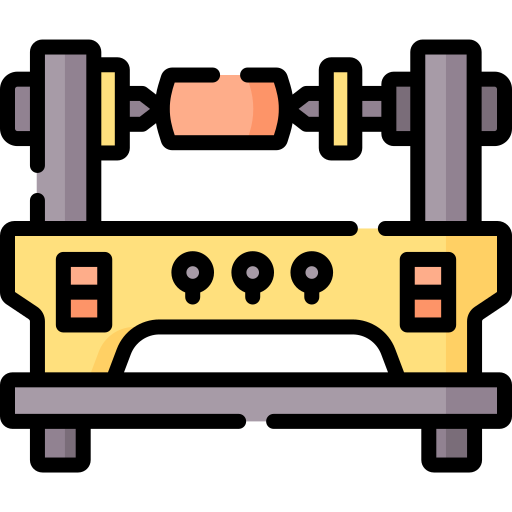
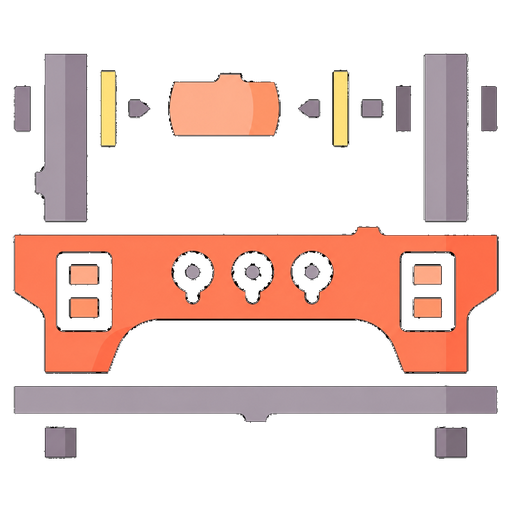
feat(service-entry): enhance equipment display and remove save progress button

diff --git a/frontend/src/features/service-entry/ServiceEntryView.tsx b/frontend/src/features/service-entry/ServiceEntryView.tsx
@@ -436,12 +436,6 @@ export const ServiceEntryView = () => {
     }
   };
 
-  const saveProgress = async () => {
-    const awaitingApproval =
-      step === 3 && form.approvalRequired && form.approvalStatus !== 'Aprovada';
-    await persistEntry(awaitingApproval ? 'Aguardando aprovação' : undefined);
-  };
-
   const openEntry = (entry) => {
     setForm({
       ...createEmptyServiceEntry(),
@@ -594,11 +588,22 @@ export const ServiceEntryView = () => {
                       <td>{entry.client}</td>
 
                       <td>
-                        <div>{entry.equipment || 'A identificar'}</div>
-                        <small>
-                          {entry.manufacturer}
-                          {entry.model ? ` · ${entry.model}` : ''}
-                        </small>
+                        <div className="service-entry-equipment-cell">
+                          {SERVICE_ENTRY_ORDER_TYPE_ICONS[entry.orderType] && (
+                            <img
+                              src={SERVICE_ENTRY_ORDER_TYPE_ICONS[entry.orderType]}
+                              alt=""
+                              aria-hidden="true"
+                            />
+                          )}
+                          <div>
+                            <div>{entry.equipment || 'A identificar'}</div>
+                            <small>
+                              {entry.manufacturer}
+                              {entry.model ? ` · ${entry.model}` : ''}
+                            </small>
+                          </div>
+                        </div>
                       </td>
 
                       <td>{serviceEntryDateLabel(entry.expectedDeliveryDate)}</td>
@@ -1143,22 +1148,14 @@ export const ServiceEntryView = () => {
         )}
 
         <div className="service-entry-actions service-entry-step-actions">
-          <button type="button" className="btn btn-ghost" onClick={reset}>
-            Nova OS
-          </button>
           <div className="service-entry-action-group">
             {step > 0 && (
               <button type="button" className="btn btn-ghost" onClick={() => changeStep(step - 1)}>
                 Voltar
               </button>
             )}
-            {form.id && (
-              <button type="button" className="btn btn-ghost" onClick={saveProgress}>
-                Salvar progresso
-              </button>
-            )}
             <button type="submit" className="btn btn-primary service-entry-save">
-              {step === SERVICE_ENTRY_STEPS.length - 1 ? 'Finalizar OS' : 'Salvar e continuar'}
+              Salvar
             </button>
           </div>
         </div>

diff --git a/frontend/src/styles.css b/frontend/src/styles.css
@@ -2216,6 +2216,19 @@ html:not(.dark) .app-shell .bench-actions-menu button:hover {
   background: rgba(59, 130, 246, 0.035);
 }
 
+.service-entry-equipment-cell {
+  display: flex;
+  align-items: center;
+  gap: 10px;
+}
+
+.service-entry-equipment-cell > img {
+  width: 38px;
+  height: 38px;
+  flex: none;
+  object-fit: contain;
+}
+
 .service-entry-table strong {
   color: #e2e8f0;
   font-family: ui-monospace, SFMono-Regular, Menlo, monospace;
